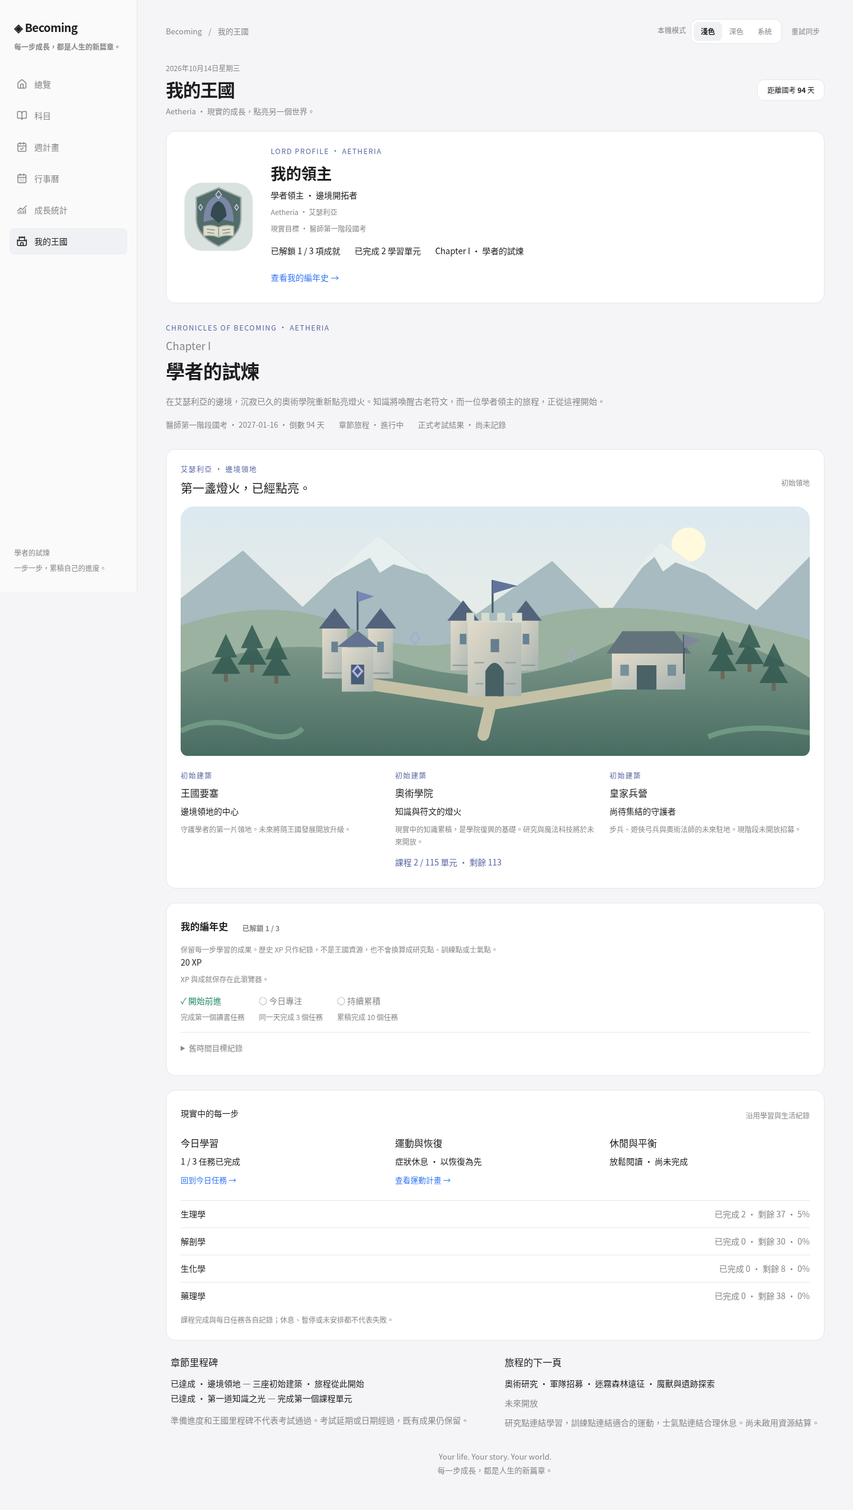
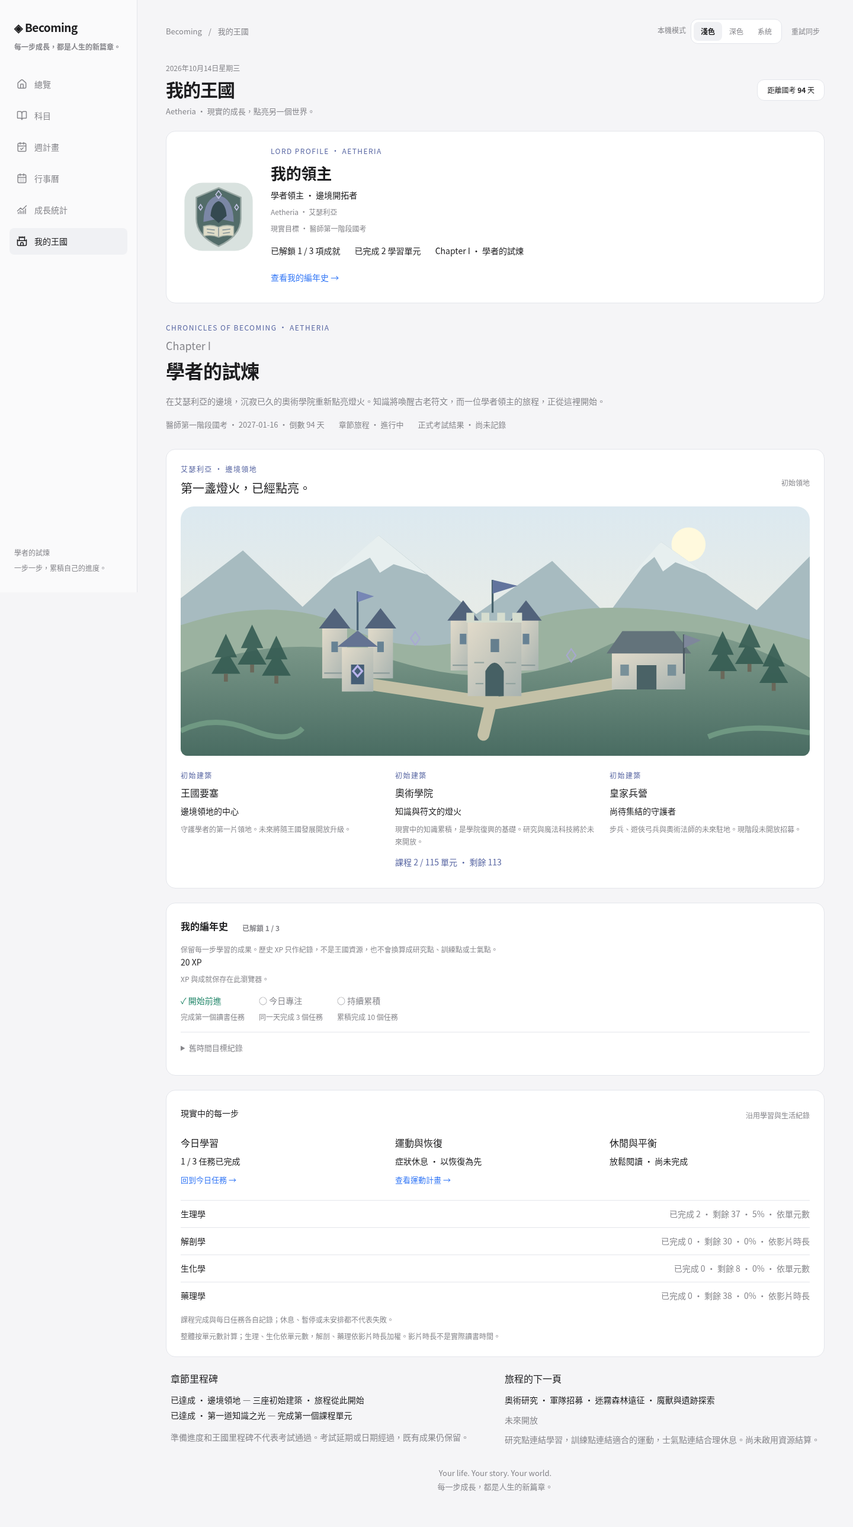
Keep the week trend in study plan and unify progress explanations

diff --git a/tests/browser/growth.spec.js b/tests/browser/growth.spec.js
@@ -3,11 +3,15 @@ async function go(page,tab){await page.waitForFunction(()=>typeof window.updateW
 test.beforeEach(async({page})=>{await page.route('**/*',r=>new URL(r.request().url()).hostname==='127.0.0.1'?r.continue():r.abort());await page.clock.install({time:new Date('2026-10-14T04:00:00Z')});});
 async function seed(page){await page.addInitScript(()=>{if(localStorage.getItem('med_exam_daily_planner_v3_local'))return;localStorage.setItem('med_exam_daily_planner_v3_local',JSON.stringify({tasks:{a:{title:'已完成單元',date:'2026-10-12',minutes:null,complete:true,deleted:false,award:{xp:20,day:'2026-10-12'}},cancel:{title:'取消完成',date:'2026-10-12',complete:false,deleted:false,award:{xp:20,day:'2026-10-12'}},removed:{title:'已移除',date:'2026-10-12',complete:true,deleted:true,award:{xp:20,day:'2026-10-12'}}},pending:{}}));localStorage.setItem('med_exam_physio_cloud',JSON.stringify({fc_p_1_a:true}));localStorage.setItem('med_exam_habits_2026-10-12',JSON.stringify({'daily-sport':true}));localStorage.setItem('med_exam_habits_2026-10-13',JSON.stringify({questOS_v1:{exercise:{type:'rest',status:'not_scheduled'}}}));localStorage.setItem('med_exam_habits_2026-10-14',JSON.stringify({questOS_v1:{exercise:{type:'walk',status:'symptom_rest'}}}));});}
 test('growth separates current scheduled task completion from reward history and dated recovery',async({page})=>{
- await seed(page);await page.goto('/');await go(page,'stats');await expect(page.locator('#page-title')).toHaveText('成長統計');await expect(page.locator('#growth-week-tasks')).toHaveText('本週已完成 1 / 2 項任務');await expect(page.locator('#growth-week')).toContainText('依任務安排日期');await expect(page.locator('#growth-subjects [data-subject=videos]')).toContainText('依影片時長');await expect(page.locator('#growth-course-total')).toContainText('1 / 115');await expect(page.locator('#weekly-detail')).toContainText('獎勵 3 筆');await expect(page.locator('#growth-exercise')).toContainText('運動完成 1 天');await expect(page.locator('#growth-exercise')).toContainText('主動休息 1 天');await expect(page.locator('#growth-exercise')).toContainText('症狀休息 1 天');await expect(page.locator('#progress-trend-card')).toContainText('不是過去各週的完成快照');await go(page,'home');await page.locator('#planner-date').fill('2026-10-12');await page.locator('[data-task-id=a] input[type=checkbox]').uncheck();await go(page,'stats');await expect(page.locator('#growth-week-tasks')).toHaveText('本週已完成 0 / 2 項任務');await expect(page.locator('#weekly-detail')).toContainText('獎勵 3 筆');
+ await seed(page);await page.goto('/');await go(page,'stats');await expect(page.locator('#page-title')).toHaveText('成長統計');await expect(page.locator('#growth-week-tasks')).toHaveText('本週已完成 1 / 2 項任務');await expect(page.locator('#growth-week')).toContainText('依任務安排日期');await expect(page.locator('#growth-subjects [data-subject=videos]')).toContainText('依影片時長');await expect(page.locator('#growth-course-total')).toContainText('1 / 115');await expect(page.locator('#weekly-detail')).toContainText('獎勵 3 筆');await expect(page.locator('#growth-exercise')).toContainText('運動完成 1 天');await expect(page.locator('#growth-exercise')).toContainText('主動休息 1 天');await expect(page.locator('#growth-exercise')).toContainText('症狀休息 1 天');await expect(page.locator('#tab-content-stats #progress-trend-card')).toHaveCount(0);await go(page,'home');await page.locator('#planner-date').fill('2026-10-12');await page.locator('[data-task-id=a] input[type=checkbox]').uncheck();await go(page,'stats');await expect(page.locator('#growth-week-tasks')).toHaveText('本週已完成 0 / 2 項任務');await expect(page.locator('#weekly-detail')).toContainText('獎勵 3 筆');
 });
 for(const width of [390,1440])test('lord identity and accessible chronicles entry work without exposing personal account data at '+width+'px',async({page})=>{
  await page.setViewportSize({width,height:900});await seed(page);await page.goto('/');await go(page,'kingdom');await expect(page.locator('#lord-name')).toHaveText('我的領主');await expect(page.locator('.lord-emblem')).toBeVisible();expect(await page.locator('.lord-emblem').evaluate(e=>e.complete&&e.naturalWidth>0)).toBe(true);await expect(page.locator('#lord-achievements-count')).toHaveText('已解鎖 2 / 3 項成就');await expect(page.locator('#lord-study-count')).toHaveText('已完成 1 學習單元');await expect(page.locator('#lord-chapter')).toHaveText('Chapter I · 學者的試煉');const before=await page.evaluate(()=>localStorage.getItem('med_exam_daily_planner_v3_local'));const entry=page.locator('#lord-open-chronicles');await entry.focus();await entry.press('Enter');await expect(page.locator('#kingdom-chronicles')).toHaveAttribute('open','');await expect(page.locator('#kingdom-chronicles > summary')).toBeFocused();await expect(page.locator('#achievements .unlocked')).toHaveCount(2);await expect(page.locator('#xp-detail')).toHaveText('60 XP');const top=await page.locator('#kingdom-chronicles').evaluate(e=>e.getBoundingClientRect().top);expect(top).toBeGreaterThanOrEqual(-1);expect(top).toBeLessThan(200);expect(await page.evaluate(()=>localStorage.getItem('med_exam_daily_planner_v3_local'))).toBe(before);expect(await page.evaluate(()=>document.documentElement.scrollWidth<=innerWidth)).toBe(true);const order=await page.locator('#tab-content-kingdom > *').evaluateAll(es=>es.map(e=>e.id||e.className));expect(order.findIndex(v=>v.includes('lord-profile'))).toBe(0);expect(order.indexOf('kingdom-chronicles')).toBeLessThan(order.findIndex(v=>v.includes('kingdom-reality')));await go(page,'stats');expect(await page.evaluate(()=>document.documentElement.scrollWidth<=innerWidth)).toBe(true);
 });
 test('growth empty states and historical pause limitations are explicit',async({page})=>{
  await page.goto('/');await go(page,'stats');await expect(page.locator('#growth-week-dates')).toContainText('尚無有效安排');await expect(page.locator('#growth-exercise-records')).toContainText('尚無運動日紀錄');await expect(page.locator('#growth-training-paused')).toContainText('沒有歷史暫停時間');await expect(page.locator('#growth-award-total')).toContainText('累積 0 筆');
+});
+
+for(const width of [390,1440])test('single week trend stays in plan and all three course basis notes agree at '+width+'px',async({page})=>{
+ await page.setViewportSize({width,height:900});await seed(page);await page.goto('/');await go(page,'home');const home=await page.locator('#tab-content-home [data-course-progress-basis]').textContent();await go(page,'stats');await expect(page.locator('#tab-content-stats #progress-trend-card')).toHaveCount(0);expect(await page.locator('#tab-content-stats [data-course-progress-basis]').textContent()).toBe(home);await go(page,'kingdom');expect(await page.locator('#tab-content-kingdom [data-course-progress-basis]').textContent()).toBe(home);await expect(page.locator('#kingdom-subjects [data-subject=videos]')).toContainText('依影片時長');await expect(page.locator('#kingdom-subjects [data-subject=pharmacology]')).toContainText('依影片時長');await go(page,'plan');await expect(page.locator('#tab-content-plan #progress-trend-card')).toBeVisible();await expect(page.locator('#progress-trend-card')).toContainText('不是過去各週的完成快照');await expect(page.locator('#progress-trend-card .recharts-wrapper')).toBeVisible();await page.evaluate(()=>window.switchTrendChartMode('rolling'));await expect(page.locator('#progress-trend-card .recharts-wrapper')).toBeVisible();await expect(page.locator('#progress-trend-card')).toHaveCount(1);await expect(page.locator('#tab-content-plan #adaptive-plan')).toBeVisible();expect(await page.evaluate(()=>document.documentElement.scrollWidth<=innerWidth)).toBe(true);
 });

diff --git a/kingdom-ui.js b/kingdom-ui.js
@@ -1,13 +1,13 @@
 import {BRAND} from './chapters.js';
 import {BUILDINGS,kingdomSnapshot} from './kingdom-core.js';
 import {lifeSummary} from './life-core.js';
-import {dateKey,gameStats} from './study-core.js';
+import {dateKey,gameStats,COURSE_PROGRESS_NOTE} from './study-core.js';
 const node=(tag,cls='',text)=>{const el=document.createElement(tag);el.className=cls;if(text!==undefined)el.textContent=text;return el;};
 export function createKingdomUI({data,states,planner,settings,life,awards=()=>({}),today=()=>dateKey()}) {
   const page=document.getElementById('tab-content-kingdom');page.classList.add('kingdom-page');
   page.innerHTML=`<section class="workspace-panel lord-profile" aria-labelledby="lord-name"><img class="lord-emblem" src="/public/art/lord-emblem.svg" alt="原創匿名學者領主徽章：兜帽、書本與符文" width="128" height="128"><div class="lord-identity"><p class="kingdom-eyebrow">Lord Profile · Aetheria</p><h2 id="lord-name">我的領主</h2><p>學者領主 · 邊境開拓者</p><p class="workspace-note">Aetheria · 艾瑟利亞</p><p id="lord-goal" class="workspace-note"></p><div class="lord-summary"><span id="lord-achievements-count"></span><span id="lord-study-count"></span><span id="lord-chapter"></span></div><a id="lord-open-chronicles" href="#kingdom-chronicles">查看我的編年史 →</a></div></section><section class="kingdom-intro"><p class="kingdom-eyebrow">${BRAND.concept} · Aetheria</p><h2>Chapter I <span>學者的試煉</span></h2><p id="kingdom-story"></p><div class="kingdom-chapter-meta"><span id="kingdom-exam"></span><span>章節旅程 · 進行中</span><span>正式考試結果 · 尚未記錄</span></div></section>
   <section class="kingdom-territory" aria-labelledby="kingdom-domain-title"><div class="panel-heading"><div><p class="kingdom-eyebrow">艾瑟利亞 · 邊境領地</p><h3 id="kingdom-domain-title">第一盞燈火，已經點亮。</h3></div><span class="workspace-note">初始領地</span></div><img class="kingdom-map" src="/public/art/aetheria.svg" alt="艾瑟利亞邊境：森林與山脈間的奧術學院、王國要塞與皇家兵營" width="960" height="380"><div id="kingdom-buildings" class="kingdom-buildings"></div></section>
-  <section class="workspace-panel kingdom-reality" aria-labelledby="kingdom-reality-title"><div class="panel-heading"><h3 id="kingdom-reality-title">現實中的每一步</h3><span class="workspace-note">沿用學習與生活紀錄</span></div><div class="kingdom-life"><div><h4>今日學習</h4><p id="kingdom-study"></p><a href="#" data-kingdom-go="home">回到今日任務 →</a></div><div><h4>運動與恢復</h4><p id="kingdom-exercise"></p><a href="#" data-kingdom-go="exercise">查看運動計畫 →</a></div><div><h4>休閒與平衡</h4><p id="kingdom-leisure"></p></div></div><div id="kingdom-subjects"></div><p class="workspace-note">課程完成與每日任務各自記錄；休息、暫停或未安排都不代表失敗。</p></section>
+  <section class="workspace-panel kingdom-reality" aria-labelledby="kingdom-reality-title"><div class="panel-heading"><h3 id="kingdom-reality-title">現實中的每一步</h3><span class="workspace-note">沿用學習與生活紀錄</span></div><div class="kingdom-life"><div><h4>今日學習</h4><p id="kingdom-study"></p><a href="#" data-kingdom-go="home">回到今日任務 →</a></div><div><h4>運動與恢復</h4><p id="kingdom-exercise"></p><a href="#" data-kingdom-go="exercise">查看運動計畫 →</a></div><div><h4>休閒與平衡</h4><p id="kingdom-leisure"></p></div></div><div id="kingdom-subjects"></div><p class="workspace-note">課程完成與每日任務各自記錄；休息、暫停或未安排都不代表失敗。</p><p class="workspace-note" data-course-progress-basis>${COURSE_PROGRESS_NOTE}</p></section>
   <section class="kingdom-outlook"><div><h3>章節里程碑</h3><ul id="kingdom-milestones"></ul><p class="workspace-note">準備進度和王國里程碑不代表考試通過。考試延期或日期經過，既有成果仍保留。</p></div><div><h3>旅程的下一頁</h3><p>奧術研究 · 軍隊招募 · 迷霧森林遠征 · 魔獸與遺跡探索</p><p class="workspace-note">未來開放</p><p class="workspace-note">研究點連結學習，訓練點連結適合的運動，士氣點連結合理休息。尚未啟用資源結算。</p></div></section><details id="kingdom-chronicles" class="workspace-panel kingdom-chronicles"><summary>我的編年史 <span id="chronicle-achievement-count" class="workspace-note"></span></summary><p class="workspace-note">保留每一步學習的成果。歷史 XP 只作紀錄，不是王國資源，也不會換算成研究點、訓練點或士氣點。</p><p id="xp-detail"></p><p id="game-sync-status" class="workspace-note" role="status"></p><div id="achievements" class="achievement-list"></div><details class="planner-history"><summary>舊時間目標紀錄</summary><div id="legacy-time-history"></div></details></details><p class="kingdom-footer">${BRAND.slogan}<br>${BRAND.meaning}</p>`;
   page.querySelector('.kingdom-territory').after(page.querySelector('#kingdom-chronicles'));
   const buildings=page.querySelector('#kingdom-buildings');for(const building of BUILDINGS){const card=node('article','kingdom-building');card.dataset.building=building.id;card.append(node('p','kingdom-eyebrow','初始建築'),node('h4','',building.title),node('p','',building.role),node('small','workspace-note',building.detail));buildings.append(card);}
@@ -29,7 +29,7 @@ export function createKingdomUI({data,states,planner,settings,life,awards=()=>({
     page.querySelector('#kingdom-study').textContent=snapshot.study.label;
     page.querySelector('#kingdom-exercise').textContent=snapshot.exercise.label;
     page.querySelector('#kingdom-leisure').textContent=(snapshot.leisure.title?snapshot.leisure.title+' · ':'')+snapshot.leisure.label;
-    const subjects=page.querySelector('#kingdom-subjects');subjects.replaceChildren();for(const subject of snapshot.subjects){const row=node('div','kingdom-subject');row.dataset.subject=subject.path;row.append(node('span','',subject.title),node('span','',`已完成 ${subject.done} · 剩餘 ${subject.remaining} · ${subject.percent}%`));subjects.append(row);}
+    const subjects=page.querySelector('#kingdom-subjects');subjects.replaceChildren();for(const subject of snapshot.subjects){const row=node('div','kingdom-subject');row.dataset.subject=subject.path;row.append(node('span','',subject.title),node('span','',`已完成 ${subject.done} · 剩餘 ${subject.remaining} · ${subject.percent}% · ${['videos','pharmacology'].includes(subject.path)?'依影片時長':'依單元數'}`));subjects.append(row);}
     const academy=buildings.querySelector('[data-building=academy]');let note=academy.querySelector('[data-course-summary]');if(!note){note=node('p','kingdom-academy-progress');note.dataset.courseSummary='';academy.append(note);}note.textContent=`課程 ${snapshot.courses.done} / ${snapshot.courses.total} 單元 · 剩餘 ${snapshot.courses.remaining}`;
     const milestones=page.querySelector('#kingdom-milestones');milestones.replaceChildren();for(const milestone of snapshot.milestones)milestones.append(node('li','',`${milestone.reached?'已達成':'待累積'} · ${milestone.title} — ${milestone.detail}`));
   }

diff --git a/index.html b/index.html
@@ -152,7 +152,7 @@
     <!-- ========================================== -->
     <div id="tab-content-plan" class="space-y-6">
 
-      <!-- 📈 原週計畫完成率與習慣紀錄圖 (Recharts Powered) -->
+      <!-- 📈 週計畫參考：原週次完成率與習慣紀錄圖 (Recharts Powered) -->
       <div id="progress-trend-card" class="bg-slate-800/90 border border-slate-700/80 rounded-2xl p-5 shadow-xl space-y-4">
         <!-- 頂部標題與控制項 -->
         <div class="flex flex-col sm:flex-row justify-between items-start sm:items-center gap-3 border-b border-slate-700/60 pb-3">
@@ -166,10 +166,10 @@
               </span>
             </div>
             <h2 class="text-base md:text-lg font-bold text-white mt-1.5 flex items-center gap-2">
-              原週計畫完成率與習慣紀錄
+              週計畫參考：原週次完成率與習慣紀錄
             </h2>
             <p class="text-xs text-slate-400 mt-0.5">
-              原計畫週次的目前完成比例；不是按實際完成日期累積的歷史趨勢。
+              此圖按原 16 週的課程／週勾選歸屬，呈現目前完成率與原習慣紀錄；不是過去各週的完成快照或真實讀書速度，週次差異不能視為時間上的增長。
             </p>
           </div>
 
@@ -1122,7 +1122,7 @@
         for(let i=0;i<hops;i++) el = el.parentElement;
         document.getElementById('tab-content-' + page).append(el);
       };
-      moveCard('progress-trend-card','stats');
+      moveCard('progress-trend-card','plan');
       moveCard('calendar-grid','calendar',4);
       document.getElementById('calendar-grid').closest('.rounded-2xl').classList.add('calendar-card');
       const calendarPage=document.getElementById('tab-content-calendar');
@@ -1148,7 +1148,7 @@
       for(const id of ['physiology','anatomy','biochem','pharmacology','plan','calendar','schedule','exercise','focus','stats']) document.getElementById('tab-content-'+id).classList.add('legacy-page');
       window.SubjectUI.prepare();
       const plan=document.getElementById('tab-content-plan');
-      Array.from(plan.children).filter(el => !el.querySelector('#checklist-container')).forEach(el=>el.remove());
+      Array.from(plan.children).filter(el => !el.querySelector('#checklist-container') && el.id!=='progress-trend-card').forEach(el=>el.remove());
     })();
   </script>
   <script type="text/plain" id="learning-script">
@@ -1213,7 +1213,7 @@
       document.getElementById('workspace-nav').classList.remove('mobile-open'); document.getElementById('mobile-menu').setAttribute('aria-expanded','false');
       window.dispatchEvent(new CustomEvent('workspace-page-change',{detail:{tab:tabName,group}}));
       if(tabName==='kingdom'&&window.openChroniclesRequested)window.openKingdomChronicles?.();
-      if(tabName==='stats' && typeof window.updateProgressTrendChart==='function') setTimeout(()=>{window.dispatchEvent(new Event('resize'));window.updateProgressTrendChart();},50);
+      if(tabName==='plan' && typeof window.updateProgressTrendChart==='function') setTimeout(()=>{window.dispatchEvent(new Event('resize'));window.updateProgressTrendChart();},50);
     };
 
     renderMainTabsNav();
@@ -3010,7 +3010,7 @@
     });
 
     // ==========================================
-    // 📈 Recharts 原週計畫完成率與習慣紀錄圖
+    // 📈 Recharts 週計畫參考：原週次完成率與習慣紀錄圖
     // ==========================================
     let trendChartMode = 'sprint'; // 'sprint' | 'rolling'
     let rechartsReactRoot = null;
@@ -3349,7 +3349,7 @@
 
     window.updateProgressTrendChart = function() {
       window.updateWorkspace?.();
-      if (currentActiveTab !== 'stats') return;
+      if (currentActiveTab !== 'plan') return;
       const mountEl = document.getElementById('recharts-progress-trend-root');
       if (!mountEl) return;
 
@@ -3772,7 +3772,7 @@
     updatePomodoroStatsUI();
 
     window.addEventListener('resize', () => {
-      if (currentActiveTab === 'stats') {
+      if (currentActiveTab === 'plan') {
         window.updateWorkspace?.();
         window.updateProgressTrendChart();
       }

diff --git a/growth-ui.js b/growth-ui.js
@@ -1,12 +1,12 @@
 import {growthSnapshot} from './growth-core.js';
-import {dateKey} from './study-core.js';
+import {dateKey,COURSE_PROGRESS_NOTE} from './study-core.js';
 const node=(tag,cls='',text)=>{const e=document.createElement(tag);e.className=cls;if(text!==undefined)e.textContent=text;return e;};
 export function createGrowthUI({data,states,planner,life,awards,today=()=>dateKey()}) {
- const page=document.getElementById('tab-content-stats'),trend=document.getElementById('progress-trend-card');
+ const page=document.getElementById('tab-content-stats');
  const summary=node('section','workspace-panel');summary.id='growth-week';summary.innerHTML='<h3>本週學習摘要</h3><p id="growth-week-tasks" class="growth-main-number"></p><p id="growth-week-dates" class="workspace-note"></p><p class="workspace-note">依任務安排日期統計目前完成狀態，排除移除及待安排任務。尚無每次完成時間戳，不代表實際完成日或讀書時數；取消完成後即不列入。</p>';
- const courses=node('section','workspace-panel');courses.innerHTML='<h3>四科課程進度</h3><p id="growth-course-total"></p><div id="growth-subjects"></div><p class="workspace-note">整體按 115 個單元數計算；各科沿用原定義：生理、生化按單元數，解剖、藥理按影片時長加權。影片時長不是實際讀書時間。</p>';
+ const courses=node('section','workspace-panel');courses.innerHTML='<h3>四科課程進度</h3><p id="growth-course-total"></p><div id="growth-subjects"></div><p class="workspace-note" data-course-progress-basis>'+COURSE_PROGRESS_NOTE+'</p>';
  page.prepend(summary,courses);
- const trendNote=node('p','workspace-note','此圖按原 16 週的課程歸屬，呈現目前完成率與原習慣紀錄；不是過去各週的完成快照或真實讀書速度。週間差異不能視為時間上的增長。');trend.prepend(trendNote);
+
  const exercise=node('section','workspace-panel');exercise.innerHTML='<h3>運動與恢復</h3><p id="growth-exercise"></p><p id="growth-exercise-records" class="workspace-note"></p><p id="growth-training-paused" class="workspace-note"></p>';
  const history=node('details','workspace-panel growth-history');history.innerHTML='<summary>歷史首次完成獎勵</summary><p id="weekly-detail"></p><p id="growth-award-total"></p><p class="workspace-note">獎勵事件包含課程、Planner 與舊時間目標；取消、改期、移除或復原不新增獎勵。它不是目前任務完成數、學習量或讀書時數，也不是王國資源。</p>';page.append(exercise,history);
  function render(){const s=growthSnapshot({data,states:states(),tasks:planner.all(),awards:awards(),day:today(),getHabits:life.habits,training:life.training()});

diff --git a/workspace.js b/workspace.js
@@ -9,7 +9,7 @@ import {createWeekPlanUI} from './week-plan-ui.js';
 import {createTimeTasks} from './time-tasks.js';
 import {createLifeStore} from './life-store.js';
 import {createLifeUI} from './life-ui.js';
-import {GAME_KEY, GAME_PATH, dateKey, awardKey, flattenSubjects, subjectStats, gameStats} from './study-core.js';
+import {GAME_KEY, GAME_PATH, COURSE_PROGRESS_NOTE, dateKey, awardKey, flattenSubjects, subjectStats, gameStats} from './study-core.js';
 
 const data = window.studyData;
 if (!data) throw new Error('課程資料未能載入');
@@ -91,10 +91,10 @@ content.innerHTML = `
     <div class="workspace-stack">
       <section class="workspace-panel" aria-labelledby="progress-title">
         <div class="panel-heading"><h2 id="progress-title">科目進度</h2><button class="workspace-link" data-go="subjects">所有科目 →</button></div>
-        <div class="overall-summary"><div><span class="overall-number" id="overall-percent"></span><span class="overall-label">已追蹤課程完成率</span></div><span id="overall-detail" class="workspace-note"></span></div>
+        <div class="overall-summary"><div><span class="overall-number" id="overall-percent"></span><span class="overall-label">整體完成率（按單元數）</span></div><span id="overall-detail" class="workspace-note"></span></div>
         <div class="workspace-meter"><span id="overall-meter"></span></div>
         <div id="subject-summary"></div>
-        <p class="workspace-note">整體依四科 115 個項目計算；生理與生化依項目數，解剖與藥理依影片時長。</p>
+        <p class="workspace-note" data-course-progress-basis>${COURSE_PROGRESS_NOTE}</p>
       </section>
       <section class="workspace-panel" aria-labelledby="upcoming-title">
         <div class="panel-heading"><h2 id="upcoming-title">近期日程</h2><button class="workspace-link" data-go="calendar">行事曆 →</button></div>

diff --git a/tests/browser/dashboard.spec.js b/tests/browser/dashboard.spec.js
@@ -106,7 +106,7 @@ test('separate pages retain calendar, routines, exercise and focus timer',async(
   await navigate(page,'schedule');await expect(page.locator('#daily-sport')).toBeVisible();await page.locator('#daily-sport').check();
   await navigate(page,'exercise');await expect(page.locator('#training-stage')).toBeVisible();await expect(page.locator('#training-description')).toContainText('正常完成');
   await navigate(page,'plan');await expect(page.locator('#checklist-container input')).toHaveCount(16);await page.locator('[data-week="1"] > summary').click();await page.locator('#w-1').check();
-  await navigate(page,'stats');await expect(page.locator('#progress-trend-card')).toBeVisible();
+  await navigate(page,'plan');await expect(page.locator('#progress-trend-card')).toBeVisible();
   await expect(page.locator('.recharts-wrapper')).toBeVisible();
   await navigate(page,'focus');await page.locator('#pomo-toggle-btn').click();await expect(page.locator('#pomo-toggle-text')).toContainText('暫停');
 });

diff --git a/study-core.js b/study-core.js
@@ -1,3 +1,4 @@
+export const COURSE_PROGRESS_NOTE='整體按單元數計算；生理、生化依單元數，解剖、藥理依影片時長加權。影片時長不是實際讀書時間。';
 export const GAME_KEY = 'med_exam_gamification_v1';
 export const GAME_PATH = 'gamification/v1';
 export function dateKey(date = new Date()) {
